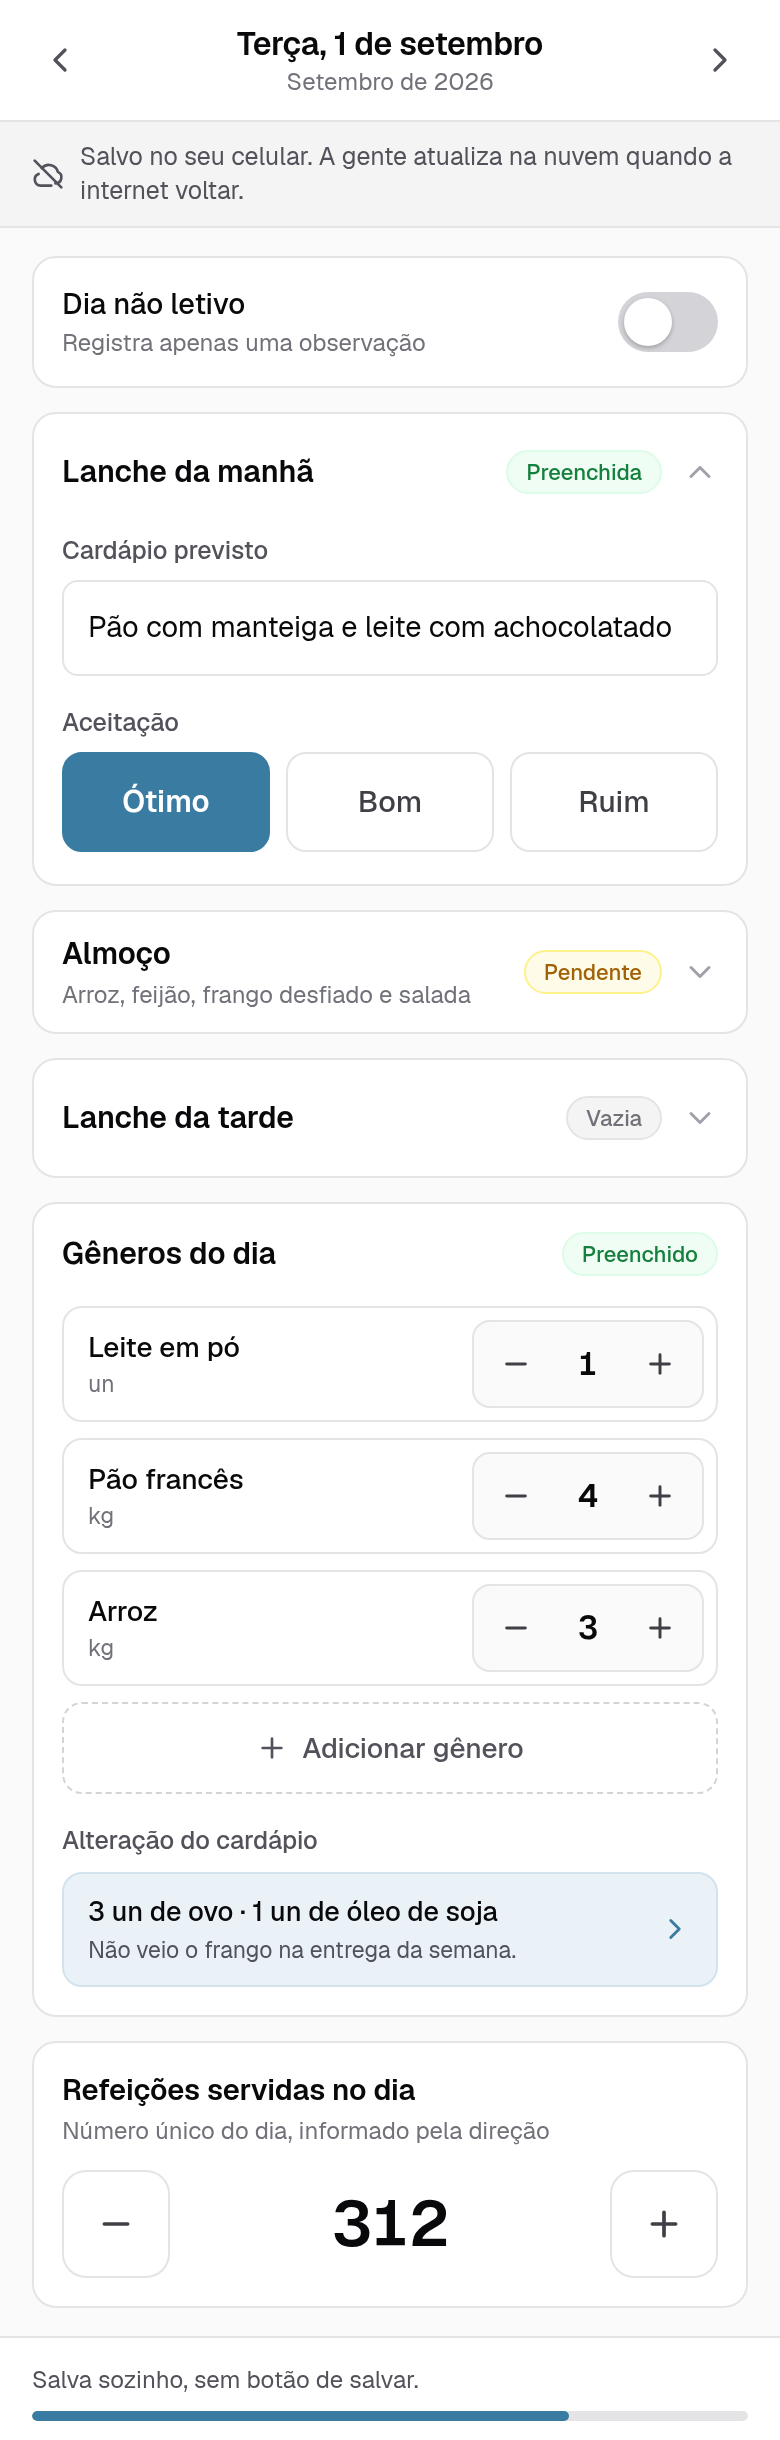
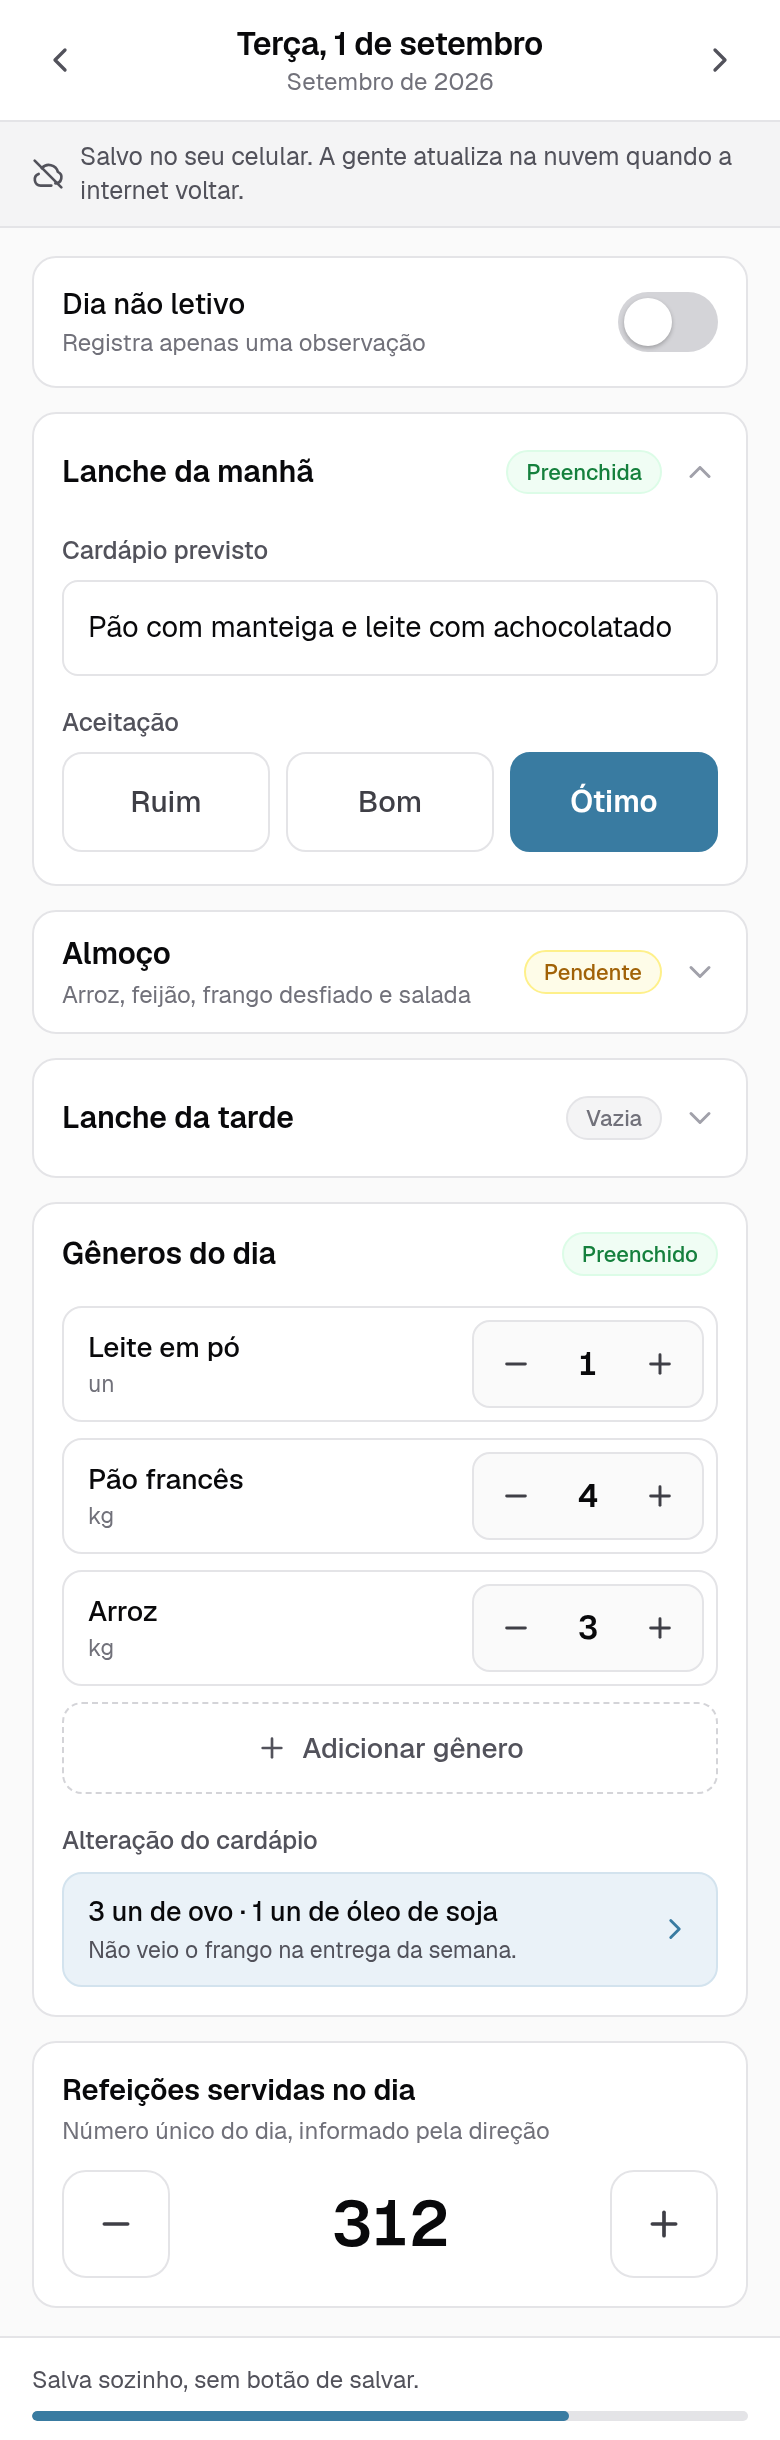
feat: aceitação na ordem Ruim, Bom, Ótimo (closes #177) (#190)
Os botões da aceitação no registro do dia vão do pior para o melhor, no
app e na web. O painel da direção acompanha: legenda, barra e frase do
leitor de tela na mesma ordem. O documento não muda, porque as opções
vêm impressas no modelo oficial. Desenhos e docs acompanham.

Changed region(s): [[0.6462, 0.2803, 0.9231, 0.3738], [0.0615, 0.2803, 0.3692, 0.3738]]

diff --git a/design/telas/AdminPainel.dc.html b/design/telas/AdminPainel.dc.html
@@ -89,41 +89,41 @@
             <span style="font-size: 12px; color: #71717a;">Percentual das avaliações do mês</span>
           </div>
           <div style="display: flex; align-items: center; gap: 14px;">
-            <span style="display: flex; align-items: center; gap: 6px; font-size: 12px; color: #52525b;"><span style="width: 9px; height: 9px; border-radius: 999px; background: #2a78d6;"></span>Ótimo</span>
-            <span style="display: flex; align-items: center; gap: 6px; font-size: 12px; color: #52525b;"><span style="width: 9px; height: 9px; border-radius: 999px; background: #f0efec; border: 1px solid #d4d4d8;"></span>Bom</span>
             <span style="display: flex; align-items: center; gap: 6px; font-size: 12px; color: #52525b;"><span style="width: 9px; height: 9px; border-radius: 999px; background: #e34948;"></span>Ruim</span>
+            <span style="display: flex; align-items: center; gap: 6px; font-size: 12px; color: #52525b;"><span style="width: 9px; height: 9px; border-radius: 999px; background: #f0efec; border: 1px solid #d4d4d8;"></span>Bom</span>
+            <span style="display: flex; align-items: center; gap: 6px; font-size: 12px; color: #52525b;"><span style="width: 9px; height: 9px; border-radius: 999px; background: #2a78d6;"></span>Ótimo</span>
           </div>
         </div>
         <div style="display: flex; flex-direction: column; gap: 16px;">
           <div style="display: flex; align-items: center; gap: 14px;">
             <span style="width: 128px; flex-shrink: 0; font-size: 13px; color: #52525b;">Lanche da manhã</span>
             <div style="flex-grow: 1; display: flex; gap: 2px; height: 18px;">
-              <div style="width: 62%; background: #2a78d6; border-radius: 4px 0 0 4px;"></div>
+              <div style="width: 8%; background: #e34948; border-radius: 4px 0 0 4px;"></div>
               <div style="width: 30%; background: #f0efec;"></div>
-              <div style="width: 8%; background: #e34948; border-radius: 0 4px 4px 0;"></div>
+              <div style="width: 62%; background: #2a78d6; border-radius: 0 4px 4px 0;"></div>
             </div>
             <span style="width: 76px; flex-shrink: 0; font-size: 12.5px; color: #09090b; font-variant-numeric: tabular-nums;">62% ótimo</span>
           </div>
           <div style="display: flex; align-items: center; gap: 14px;">
             <span style="width: 128px; flex-shrink: 0; font-size: 13px; color: #52525b;">Almoço</span>
             <div style="flex-grow: 1; display: flex; gap: 2px; height: 18px;">
-              <div style="width: 48%; background: #2a78d6; border-radius: 4px 0 0 4px;"></div>
+              <div style="width: 14%; background: #e34948; border-radius: 4px 0 0 4px;"></div>
               <div style="width: 38%; background: #f0efec;"></div>
-              <div style="width: 14%; background: #e34948; border-radius: 0 4px 4px 0;"></div>
+              <div style="width: 48%; background: #2a78d6; border-radius: 0 4px 4px 0;"></div>
             </div>
             <span style="width: 76px; flex-shrink: 0; font-size: 12.5px; color: #09090b; font-variant-numeric: tabular-nums;">48% ótimo</span>
           </div>
           <div style="display: flex; align-items: center; gap: 14px;">
             <span style="width: 128px; flex-shrink: 0; font-size: 13px; color: #52525b;">Lanche da tarde</span>
             <div style="flex-grow: 1; display: flex; gap: 2px; height: 18px;">
-              <div style="width: 55%; background: #2a78d6; border-radius: 4px 0 0 4px;"></div>
+              <div style="width: 10%; background: #e34948; border-radius: 4px 0 0 4px;"></div>
               <div style="width: 35%; background: #f0efec;"></div>
-              <div style="width: 10%; background: #e34948; border-radius: 0 4px 4px 0;"></div>
+              <div style="width: 55%; background: #2a78d6; border-radius: 0 4px 4px 0;"></div>
             </div>
             <span style="width: 76px; flex-shrink: 0; font-size: 12.5px; color: #09090b; font-variant-numeric: tabular-nums;">55% ótimo</span>
           </div>
         </div>
-        <span style="font-size: 11.5px; color: #a1a1aa;">Cada refeição avaliada pela merendeira em um toque: ótimo, bom ou ruim.</span>
+        <span style="font-size: 11.5px; color: #a1a1aa;">Cada refeição avaliada pela merendeira em um toque: ruim, bom ou ótimo.</span>
       </div>
 
       <div style="background: #ffffff; border: 1px solid #e4e4e7; border-radius: 12px; padding: 20px; display: flex; flex-direction: column; gap: 18px;">

diff --git a/design/telas/Main.dc.html b/design/telas/Main.dc.html
@@ -78,9 +78,9 @@
               <div style="display: flex; flex-direction: column; gap: 7px;">
                 <span style="font-size: 12.5px; font-weight: 500; color: #52525b;">Aceitação</span>
                 <div style="display: flex; gap: 8px;">
-                  <button onClick="{{manha.otimo.escolher}}" style="{{manha.otimo.style}}">Ótimo</button>
-                  <button onClick="{{manha.bom.escolher}}" style="{{manha.bom.style}}">Bom</button>
                   <button onClick="{{manha.ruim.escolher}}" style="{{manha.ruim.style}}">Ruim</button>
+                  <button onClick="{{manha.bom.escolher}}" style="{{manha.bom.style}}">Bom</button>
+                  <button onClick="{{manha.otimo.escolher}}" style="{{manha.otimo.style}}">Ótimo</button>
                 </div>
               </div>
             </div>
@@ -109,9 +109,9 @@
               <div style="display: flex; flex-direction: column; gap: 7px;">
                 <span style="font-size: 12.5px; font-weight: 500; color: #52525b;">Aceitação</span>
                 <div style="display: flex; gap: 8px;">
-                  <button onClick="{{almoco.otimo.escolher}}" style="{{almoco.otimo.style}}">Ótimo</button>
-                  <button onClick="{{almoco.bom.escolher}}" style="{{almoco.bom.style}}">Bom</button>
                   <button onClick="{{almoco.ruim.escolher}}" style="{{almoco.ruim.style}}">Ruim</button>
+                  <button onClick="{{almoco.bom.escolher}}" style="{{almoco.bom.style}}">Bom</button>
+                  <button onClick="{{almoco.otimo.escolher}}" style="{{almoco.otimo.style}}">Ótimo</button>
                 </div>
               </div>
             </div>
@@ -137,9 +137,9 @@
               <div style="display: flex; flex-direction: column; gap: 7px;">
                 <span style="font-size: 12.5px; font-weight: 500; color: #52525b;">Aceitação</span>
                 <div style="display: flex; gap: 8px;">
-                  <button onClick="{{tarde.otimo.escolher}}" style="{{tarde.otimo.style}}">Ótimo</button>
-                  <button onClick="{{tarde.bom.escolher}}" style="{{tarde.bom.style}}">Bom</button>
                   <button onClick="{{tarde.ruim.escolher}}" style="{{tarde.ruim.style}}">Ruim</button>
+                  <button onClick="{{tarde.bom.escolher}}" style="{{tarde.bom.style}}">Bom</button>
+                  <button onClick="{{tarde.otimo.escolher}}" style="{{tarde.otimo.style}}">Ótimo</button>
                 </div>
               </div>
             </div>

diff --git a/web/src/admin/acceptance-card.tsx b/web/src/admin/acceptance-card.tsx
@@ -24,6 +24,10 @@ import {
  * em texto, e a frase do `aria-label` diz a distribuição inteira. É o que
  * mantém a leitura de pé no tema escuro, no monitor da secretaria e no leitor
  * de tela.
+ *
+ * Desde a E7, legenda, barra e frase vão do pior para o melhor, na mesma
+ * ordem dos botões do registro (issue #177). O "62% ótimo" fica logo depois
+ * da fatia do ótimo, que é a última.
  */
 export function AcceptanceCard({
   acceptance,
@@ -58,12 +62,12 @@ export function AcceptanceCard({
           aria-hidden="true"
           className="flex flex-wrap items-center gap-x-3.5 gap-y-1"
         >
-          <Legend color="bg-chart-1" label={DASHBOARD_MESSAGES.great} />
+          <Legend color="bg-chart-3" label={DASHBOARD_MESSAGES.poor} />
           <Legend
             color="border border-border bg-chart-2"
             label={DASHBOARD_MESSAGES.good}
           />
-          <Legend color="bg-chart-3" label={DASHBOARD_MESSAGES.poor} />
+          <Legend color="bg-chart-1" label={DASHBOARD_MESSAGES.great} />
         </ul>
       </div>
 
@@ -131,8 +135,8 @@ function AcceptanceRow({ meal }: { meal: MealAcceptance }) {
         ) : (
           <>
             <Segment
-              share={meal.shares.great}
-              className="rounded-l-sm bg-chart-1"
+              share={meal.shares.poor}
+              className="rounded-l-sm bg-chart-3"
             />
             {/*
              * O "bom" é claro demais para se sustentar sozinho sobre o cartão
@@ -146,8 +150,8 @@ function AcceptanceRow({ meal }: { meal: MealAcceptance }) {
               className="bg-chart-2 shadow-[inset_0_0_0_1px_var(--border)]"
             />
             <Segment
-              share={meal.shares.poor}
-              className="rounded-r-sm bg-chart-3"
+              share={meal.shares.great}
+              className="rounded-r-sm bg-chart-1"
             />
           </>
         )}

diff --git a/web/src/day/day-register.test.tsx b/web/src/day/day-register.test.tsx
@@ -1,5 +1,11 @@
 import { QueryClient, QueryClientProvider } from '@tanstack/react-query'
-import { fireEvent, render, screen, waitFor } from '@testing-library/react'
+import {
+  fireEvent,
+  render,
+  screen,
+  waitFor,
+  within,
+} from '@testing-library/react'
 import { MemoryRouter } from 'react-router'
 import { afterEach, beforeEach, describe, expect, it, vi } from 'vitest'
 
@@ -124,6 +130,14 @@ describe('o registro de um dia comum', () => {
 
     // O lanche da manhã já abre: é a primeira refeição que falta.
     typeDescription('Pão com manteiga e leite com achocolatado')
+
+    // Do pior para o melhor (issue #177).
+    expect(
+      within(screen.getByRole('group', { name: 'Aceitação' }))
+        .getAllByRole('button')
+        .map((button) => button.textContent)
+    ).toEqual(['Ruim', 'Bom', 'Ótimo'])
+
     fireEvent.click(screen.getByRole('button', { name: 'Ótimo' }))
 
     await waitFor(async () => {

diff --git a/web/src/admin/messages.ts b/web/src/admin/messages.ts
@@ -336,7 +336,7 @@ export const DASHBOARD_MESSAGES = {
   acceptanceTitle: 'Aceitação por refeição',
   acceptanceSubtitle: 'Percentual das avaliações do mês',
   acceptanceHint:
-    'Cada refeição avaliada pela merendeira em um toque: ótimo, bom ou ruim.',
+    'Cada refeição avaliada pela merendeira em um toque: ruim, bom ou ótimo.',
   acceptanceEmpty:
     'Nenhuma refeição foi avaliada neste mês ainda. A aceitação aparece assim que a merendeira registrar o primeiro dia.',
 
@@ -434,5 +434,5 @@ export function acceptanceSummaryLabel(
 
   if (total === 0) return `${meal}: sem avaliação neste mês`
 
-  return `${meal}: ${counts.great} ótimo, ${counts.good} bom, ${counts.poor} ruim, de ${total} avaliações`
+  return `${meal}: ${counts.poor} ruim, ${counts.good} bom, ${counts.great} ótimo, de ${total} avaliações`
 }

diff --git a/web/src/day/messages.ts b/web/src/day/messages.ts
@@ -52,8 +52,11 @@ export const FOOD_ITEMS_STATE_LABELS: Record<MealState, string> = {
   empty: 'Vazio',
 }
 
-/** Os três botões da aceitação, na ordem em que aparecem (CA#2 da US004). */
-export const ACCEPTANCE_ORDER: AcceptanceLevel[] = ['great', 'good', 'poor']
+/**
+ * Os três botões da aceitação, na ordem em que aparecem (CA#2 da US004): do
+ * pior para o melhor desde a E7, como a Merendeira 1 pediu (issue #177).
+ */
+export const ACCEPTANCE_ORDER: AcceptanceLevel[] = ['poor', 'good', 'great']
 
 export const ACCEPTANCE_LABELS: Record<AcceptanceLevel, string> = {
   great: 'Ótimo',

diff --git a/app/test/pages/day_register_page_test.dart b/app/test/pages/day_register_page_test.dart
@@ -179,6 +179,12 @@ void main() {
         expect(find.text('Ótimo'), findsOneWidget);
         expect(find.text('Bom'), findsOneWidget);
         expect(find.text('Ruim'), findsOneWidget);
+        // Do pior para o melhor (issue #177).
+        final left = [
+          for (final label in ['Ruim', 'Bom', 'Ótimo'])
+            tester.getTopLeft(find.text(label)).dx,
+        ];
+        expect(left, orderedEquals([...left]..sort()));
 
         // É um acordeão — só um cartão aberto por vez (decisão 5 da E3) —,
         // mas os outros dois abrem do mesmo jeito.

diff --git a/app/lib/day/messages.dart b/app/lib/day/messages.dart
@@ -53,8 +53,9 @@ const Map<MealState, String> foodItemsStateLabels = {
   MealState.empty: 'Vazio',
 };
 
-/// Os três botões da aceitação, na ordem em que aparecem (CA#2 da US004).
-const List<String> acceptanceOrder = ['great', 'good', 'poor'];
+/// Os três botões da aceitação, na ordem em que aparecem (CA#2 da US004):
+/// do pior para o melhor desde a E7, como a Merendeira 1 pediu (issue #177).
+const List<String> acceptanceOrder = ['poor', 'good', 'great'];
 
 const Map<String, String> acceptanceLabels = {
   'great': 'Ótimo',

diff --git a/web/src/admin/dashboard.test.tsx b/web/src/admin/dashboard.test.tsx
@@ -205,7 +205,7 @@ describe('a aceitação por refeição', () => {
 
     expect(
       screen.getByRole('img', {
-        name: 'Lanche da tarde: 0 ótimo, 0 bom, 2 ruim, de 2 avaliações',
+        name: 'Lanche da tarde: 2 ruim, 0 bom, 0 ótimo, de 2 avaliações',
       })
     ).toBeInTheDocument()
   })

diff --git a/docs/03-ux/telas.md b/docs/03-ux/telas.md
@@ -37,6 +37,8 @@ Os documentos ainda dentro da janela de 7 dias, com o período, quantos mapas co
 As três refeições em cartões expansíveis, com o cardápio previsto e a aceitação em três botões; abaixo delas, o cartão dos gêneros do dia, com stepper de inteiros e a alteração do cardápio — registrada, ela aparece ali com os gêneros da troca e o motivo, porque é isso que sai no documento oficial —; o número único de refeições do dia e a alternância de dia não letivo. Não há botão de salvar: a faixa do topo diz o estado do salvamento. **US001, US002, US003, US004, US005, US009, US010.**
 
 > **Revisto na E7.** Até a E7, os gêneros e a alteração ficavam dentro do cartão de cada refeição, e havia um segundo estado desta tela, com o almoço aberto, para mostrar a alteração no cartão dele. Nos testes com as merendeiras os dois passaram a ser do dia — ver [decisão 14 da E4](../04-banco-de-dados/decisoes-de-modelagem.md).
+>
+> Também na E7 os botões da aceitação passaram a ir do pior para o melhor, **Ruim · Bom · Ótimo**, a pedido da Merendeira 1 (issue #177). O painel da direção acompanhou a ordem.
 
 ### 3a · Alteração do cardápio
 

diff --git a/docs/05-web/painel-gerencial.md b/docs/05-web/painel-gerencial.md
@@ -114,11 +114,17 @@ ao ponto da legenda, e sem ele o fim da fatia some quando ela é a última.
 
 A cor não carrega a informação sozinha. Cada barra de aceitação tem o percentual
 escrito ao lado e um `aria-label` com a distribuição inteira em palavras
-("Lanche da tarde: 0 ótimo, 0 bom, 2 ruim, de 2 avaliações"); a legenda é
+("Lanche da tarde: 2 ruim, 0 bom, 0 ótimo, de 2 avaliações"); a legenda é
 `aria-hidden`, porque ela só explica a cor. As larguras são a proporção exata,
 sem arredondar — três inteiros arredondados somam 99 ou 101, e a sobra vira um
 degrau na ponta da barra. O arredondamento fica no rótulo, onde é lido, e não na
 geometria, onde se acumula.
+
+> **Revisto na E7.** Legenda, barra e frase iam de "ótimo" a "ruim". Quando a
+> Merendeira 1 pediu os botões do registro na ordem Ruim · Bom · Ótimo, o
+> painel acompanhou, para a direção ler na mesma ordem em que a merendeira
+> avalia (issue #177). O "62% ótimo" ficou logo depois da fatia do ótimo, que
+> passou a ser a última.
 
 ## O menu suspenso do mês, e os 17 kB que ele quase cobrou
 
